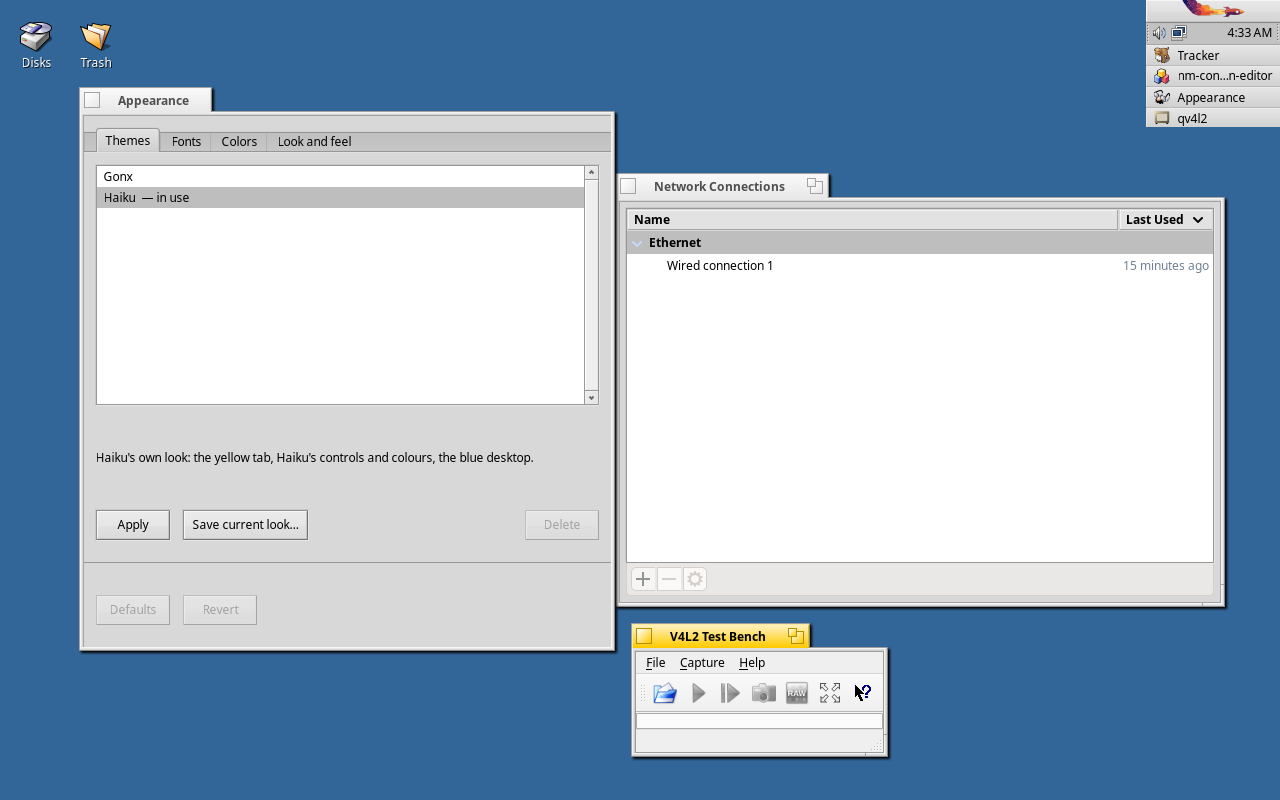
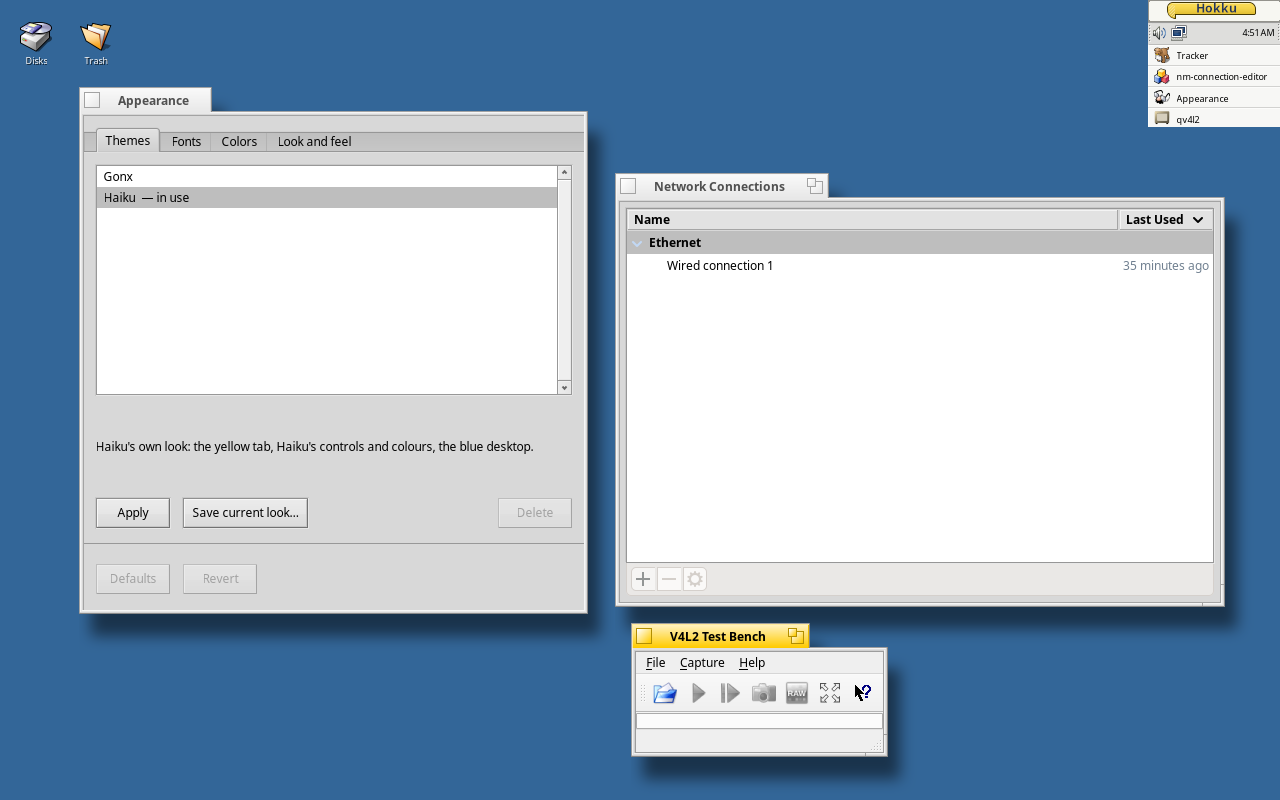
Deeper window shadows
Hokku at 3d1b7f6: windows in the Haiku and Gonx frames float well above
the desktop, their shadow moved 12 pixels right and 22 down and blurred
with a sigma of 7 at half black, reaching about 30 pixels right and 40
below. Hokku's own windows keep the shadow between repaints.

- labwc-hokku (pkgrel 4): the same shadow round other apps' windows, sized
  by gonx_frame_shadow_extent(); each strip keeps its shadow until the
  frame's layout changes, so focus changes and pressed buttons don't blur
  it again. Frame sources from 3d1b7f6.
- README: the frame shots with the new shadows.

Chosen from six variants rendered in the 1.0 ISO with Hokku and
labwc-hokku. Making the shadow takes 4.8 ms for a 1000x700 window, laying
a kept one 0.3 ms.

diff --git a/README.md b/README.md
@@ -49,14 +49,14 @@ Hokku (2439048) on the 1.0 ISO.
 
 Other apps' windows get the theme's frame too: labwc-hokku draws Hokku's own Haiku or Gonx
 tab and border round them, so a GTK or Qt window moves, zooms, closes and resizes like a Hokku
-one. Every window casts the shadow of the Gonx mockups, of a light above and to the left:
-four pixels past the frame's right and bottom edges, none when it fills the screen. Below,
-Appearance (Hokku), Network Connections (GTK 3) and V4L2 Test Bench (Qt 6), from Hokku
-ec04409 and labwc-hokku on the 1.0 ISO:
+one. Every window casts a deep, soft shadow, of a light high up and to the left, as if it
+floated well above the desktop: about 30 pixels past the frame's right edge and 40 below,
+none when it fills the screen. Below, Appearance (Hokku), Network Connections (GTK 3) and
+V4L2 Test Bench (Qt 6), from Hokku 3d1b7f6 and labwc-hokku on the 1.0 ISO:
 
-![Haiku's look: Appearance with Haiku in use, Network Connections and V4L2 Test Bench, each in Haiku's frame and casting a shadow down and to the right: a tab as wide as its title with the close box at the left and the zoom box at the right, the Qt app's tab yellow as the active window, the others grey](docs/screenshots/frames-haiku.png)
+![Haiku's look: Appearance with Haiku in use, Network Connections and V4L2 Test Bench, each in Haiku's frame and casting a long soft shadow down and to the right: a tab as wide as its title with the close box at the left and the zoom box at the right, the Qt app's tab yellow as the active window, the others grey](docs/screenshots/frames-haiku.png)
 
-![Gonx: the same three windows in the Gonx frame, a rounded tab with the close, zoom and minimize buttons on the blue-grey shelf beside it, each window's shadow falling down and to the right over the desktop and the windows below, the Qt app's tab yellow as the active window](docs/screenshots/frames-gonx.png)
+![Gonx: the same three windows in the Gonx frame, a rounded tab with the close, zoom and minimize buttons on the blue-grey shelf beside it, each window's long soft shadow falling down and to the right over the desktop and the windows below, the Qt app's tab yellow as the active window](docs/screenshots/frames-gonx.png)
 
 The same Gonx controls in Hokku's Showcase, a GTK 3 app and a Qt app (the GTK and Qt test
 galleries copy Showcase's layout):
